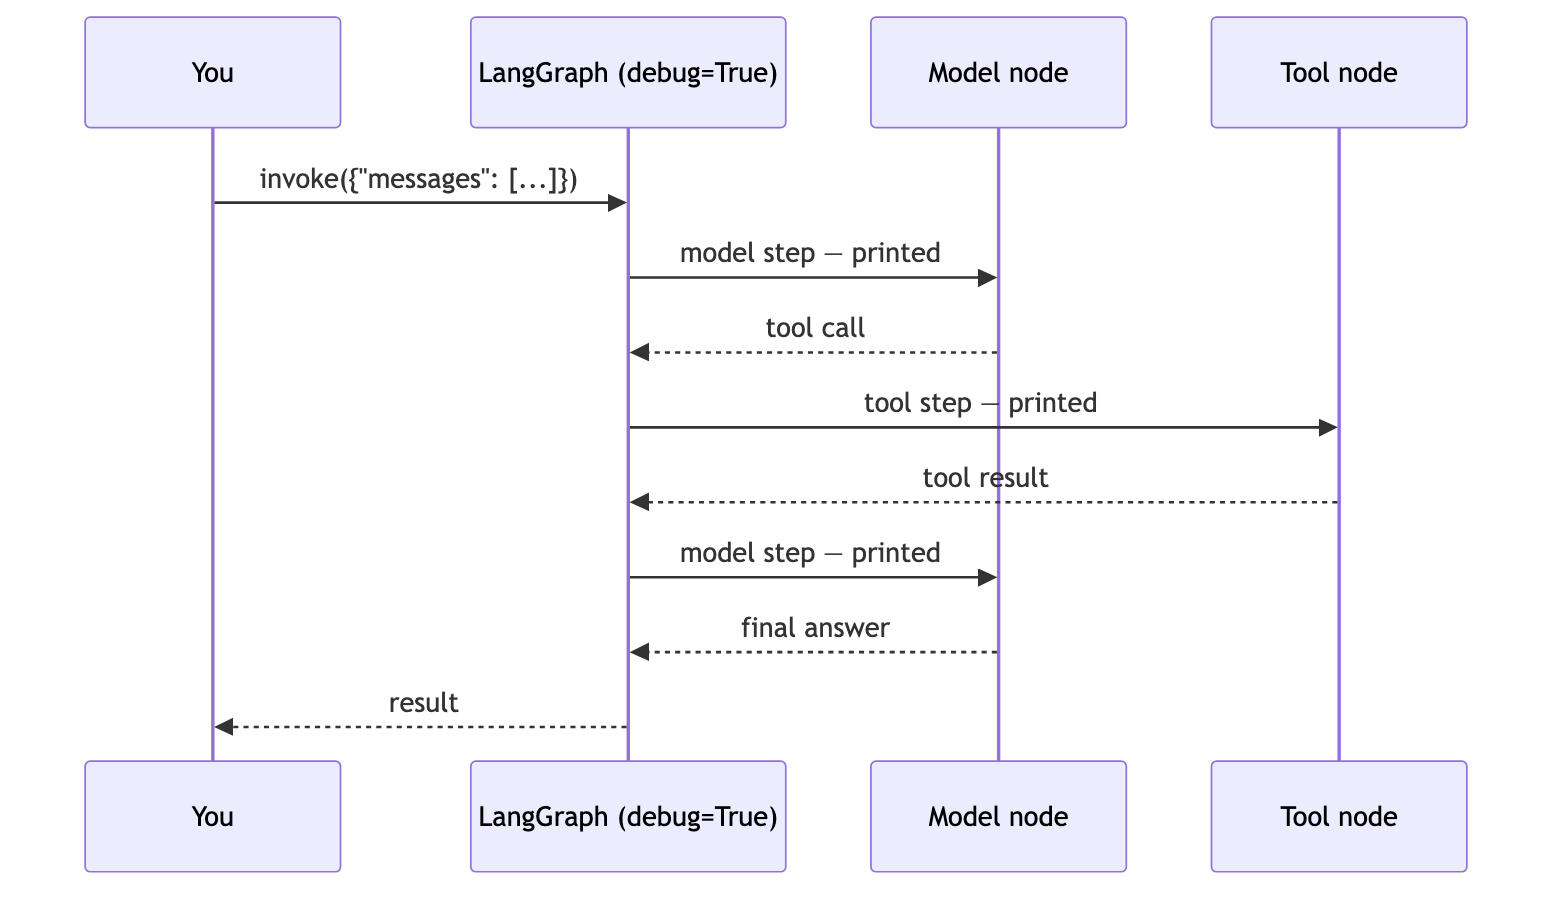
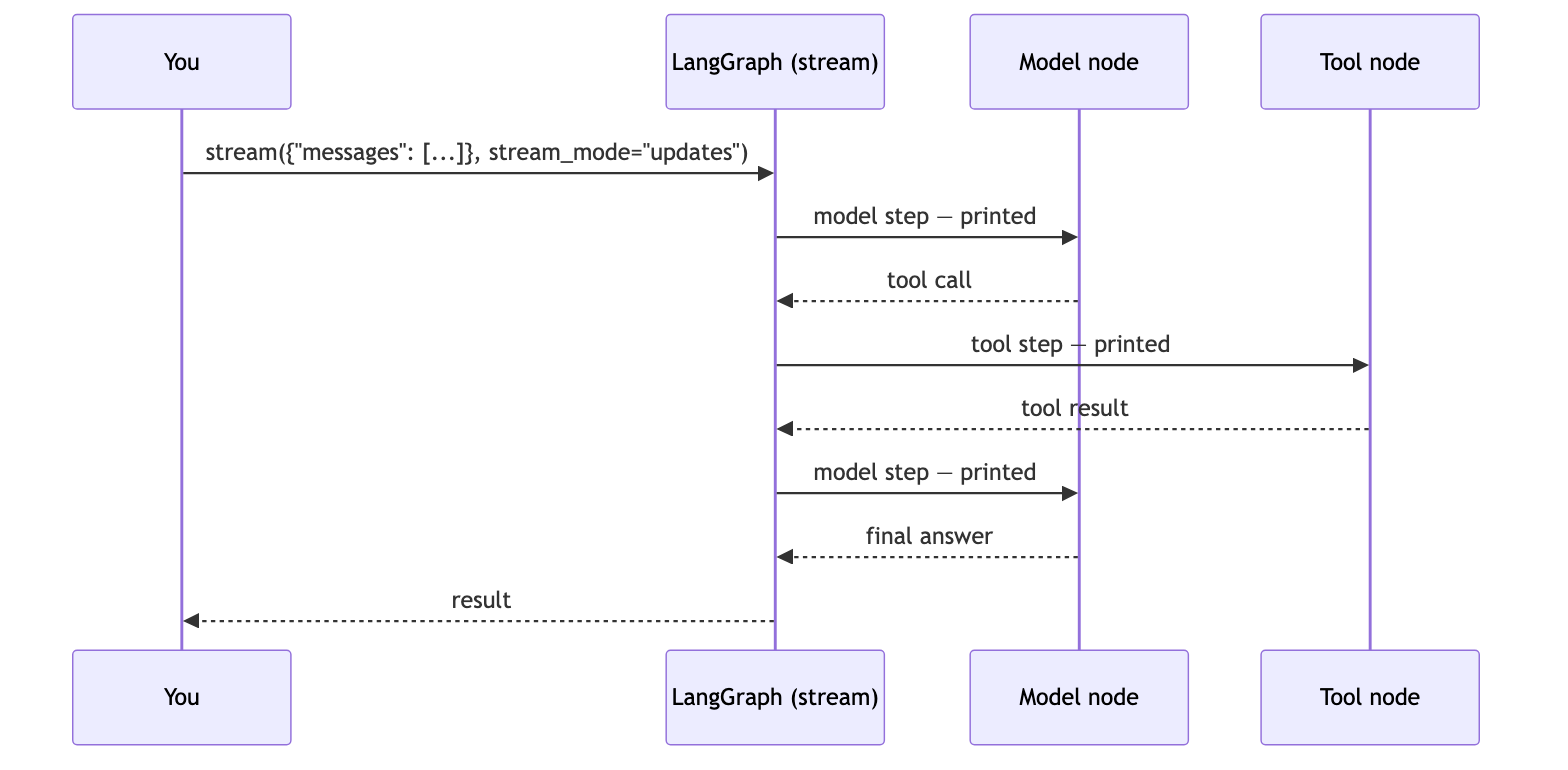
Update slides.md to clarify debug mode functionality
- Changed `debug=True` to `stream_mode="updates"` for printing graph steps in a readable trace.
- Emphasized the importance of keeping questions concise.

diff --git a/deepagents_101/02-models_and_prompts/02-models_and_prompts.py b/deepagents_101/02-models_and_prompts/02-models_and_prompts.py
@@ -3,7 +3,7 @@
 ==============================
 - Two ways to specify a model: a "provider:model" string or a model instance
 - How `system_prompt` steers the agent (and where it lands in the final prompt)
-- `debug=True` for seeing every graph step
+- Tracing every graph step with stream_mode="updates"
 
 Run:  python 02-models_and_prompts.py
 """
@@ -36,6 +36,34 @@ def ask(agent, question: str) -> str:
     return result["messages"][-1].text.strip()
 
 
+def trace(agent, question: str) -> str:
+    """Run the agent, printing a readable trace of every graph step."""
+    last_ai = ""
+    for step, update in enumerate(
+        agent.stream({"messages": [{"role": "user", "content": question}]}, stream_mode="updates"),
+        start=1,
+    ):
+        for node, state in update.items():
+            print(f"\n[bold magenta]step {step}[/bold magenta] [yellow]· {node}[/yellow]")
+            for msg in (state or {}).get("messages", []):
+                label = {"human": "👤 user", "ai": "🤖 model", "tool": "🔧 tool"}.get(msg.type, msg.type)
+                text = msg.text.strip()
+                if len(text) > 100:
+                    text = text[:100] + "…"
+                if text:
+                    print(f"  {label}: {text}")
+                for call in msg.tool_calls:
+                    print(f"  🔧 calls {call['name']}({call['args']})")
+                if msg.usage_metadata:
+                    u = msg.usage_metadata
+                    print(f"  [dim]tokens: {u['input_tokens']} in / {u['output_tokens']} out[/dim]")
+                if msg.type == "ai" and text:
+                    last_ai = text
+            if not (state or {}).get("messages"):
+                print("  [dim](no new messages)[/dim]")
+    return last_ai
+
+
 # Reuse one prompt across every demo so differences come only from configuration
 QUESTION = "In one short sentence, what is LangChain? Do not use tools."
 
@@ -57,10 +85,10 @@ print(f"{ask(string_agent, QUESTION)}\n")
 
 ################################ B. Model as an Instance ################################
 
-llm = init_chat_model(MODEL, temperature=0)  # temperature=0 for deterministic demos
+llm = init_chat_model(MODEL, temperature=0, max_tokens=100, timeout=30)  # temperature=0 for deterministic demos
 instance_agent = create_deep_agent(model=llm)
 print("[bold cyan]B. model as an instance[/bold cyan]")
-print(f"  class: [yellow]{type(llm).__name__}[/yellow] (temperature=0)")
+print(f"  class: [yellow]{type(llm).__name__}[/yellow] (temperature=0, max_tokens=100, timeout=30)")
 print(f"  {ask(instance_agent, QUESTION)}\n")
 
 # %% Step 4: The system prompt steers behavior
@@ -78,15 +106,16 @@ pirate_agent = create_deep_agent(
 print("[bold cyan]C. custom system_prompt[/bold cyan]")
 print(f"  {ask(pirate_agent, QUESTION)}\n")
 
-# %% Step 5: debug=True prints every graph step
-# Verbose! Use it while developing to see the model/tool nodes as they execute.
-# Keep the question tiny — the trace is long.
+# %% Step 5: Tracing the graph
+# `debug=True` on create_deep_agent() dumps every raw state update — a wall of
+# message objects. Cleaner: stream the graph yourself with stream_mode="updates"
+# and format each step (see trace() above).
 
-################################ D. Debug Tracing ################################
+################################ D. Tracing the Graph ################################
 
-print("[bold cyan]D. debug=True (expect a verbose LangGraph trace below)[/bold cyan]")
-debug_agent = create_deep_agent(model=MODEL, debug=True)  # stream every graph node
-answer = ask(debug_agent, "Say the word 'ready' and nothing else.")  # minimal trace
+print("[bold cyan]D. tracing the graph (stream_mode='updates')[/bold cyan]")
+traced_agent = create_deep_agent(model=MODEL)
+answer = trace(traced_agent, "Say the word 'ready' and nothing else.")  # minimal trace
 print(f"\n[bold green]Final answer:[/bold green] {answer}")
 
 # %%

diff --git a/deepagents_101/02-models_and_prompts/README.md b/deepagents_101/02-models_and_prompts/README.md
@@ -9,13 +9,13 @@
 - **Model as a string**: `"provider:model"` is handed to `init_chat_model`, so any LangChain provider works (`ollama:`, `openai:`, `anthropic:`, `google_genai:`)
 - **Model as an instance**: build it yourself with `init_chat_model(MODEL, temperature=0)` when you need to tune parameters (temperature, max_tokens, timeouts, base_url)
 - **Prompt composition**: your `system_prompt` does NOT replace the deep-agent instructions — it is placed FIRST, and the framework's tool guidance is appended after it (which is why the agent still knows how to use `write_file`, `task`, etc.)
-- **`debug=True`**: prints every graph step — use it while developing, keep the question tiny
+- **Tracing the graph**: `debug=True` dumps raw state updates; `stream_mode="updates"` + a small formatter gives a readable step-by-step trace
 
 ## Key Concepts
 
 1. String = simplest; instance = full control. deepagents uses the instance as-is
 2. The system prompt steers _personality and behavior_; tool knowledge comes from the framework
-3. `debug=True` is a LangGraph trace — verbose by design
+3. `debug=True` dumps raw state; `stream_mode="updates"` gives a readable step-by-step trace
 
 ## Teaching Notes
 
@@ -26,7 +26,7 @@
 - **Step 2 — A. model as a string:** `create_deep_agent(model=MODEL)`. deepagents hands the string to `init_chat_model`, so any LangChain provider works. Run it, show the answer.
 - **Step 3 — B. model as an instance:** `init_chat_model(MODEL, temperature=0)`. Use this when you need to tune parameters (temperature, max_tokens, base_url). Run the same question — same behavior, more control.
 - **Step 4 — C. custom system_prompt:** The pirate. This is the memorable moment — let it land. Then the key teaching point: your prompt is placed FIRST and the framework's tool guidance is appended AFTER it. The agent is still a full deep agent, just a pirate one.
-- **Step 5 — D. debug=True:** Verbose LangGraph trace. Keep the question tiny ("say ready"). Scroll fast — don't read it line by line.
+- **Step 5 — D. tracing the graph:** `stream_mode="updates"` + a small `trace()` formatter. Each step shows the node, its messages, tool calls, and token counts. Keep the question tiny ("say ready").
 
 **On camera:**
 
@@ -35,7 +35,7 @@
 
 **If it goes wrong:**
 
-- The debug trace is long and can look scary. Frame it: "This is every graph step — verbose by design, and it's how you debug."
+- If the trace looks long, frame it: "This is every graph step — which node ran, what it produced, and how many tokens it used. It's how you debug."
 
 **Bridge to ep. 03:** "So far the agent only has built-in tools. Next: add your own — a tool is just a Python function with a docstring."
 

diff --git a/deepagents_101/02-models_and_prompts/slides.md b/deepagents_101/02-models_and_prompts/slides.md
@@ -33,6 +33,6 @@ agent = create_deep_agent(model=llm)
 
 - `system_prompt` is placed **FIRST** — the framework's tool guidance is **appended after it**
 - Your prompt steers **personality and behavior**; tool knowledge comes from the framework
-- `debug=True` prints **every graph step** — verbose by design, keep the question tiny
+- `stream_mode="updates"` prints **every graph step** in a readable trace — keep the question tiny
 
 **Next (ep. 03):** the agent only has built-in tools — add your own. A tool is just a Python function with a docstring.
